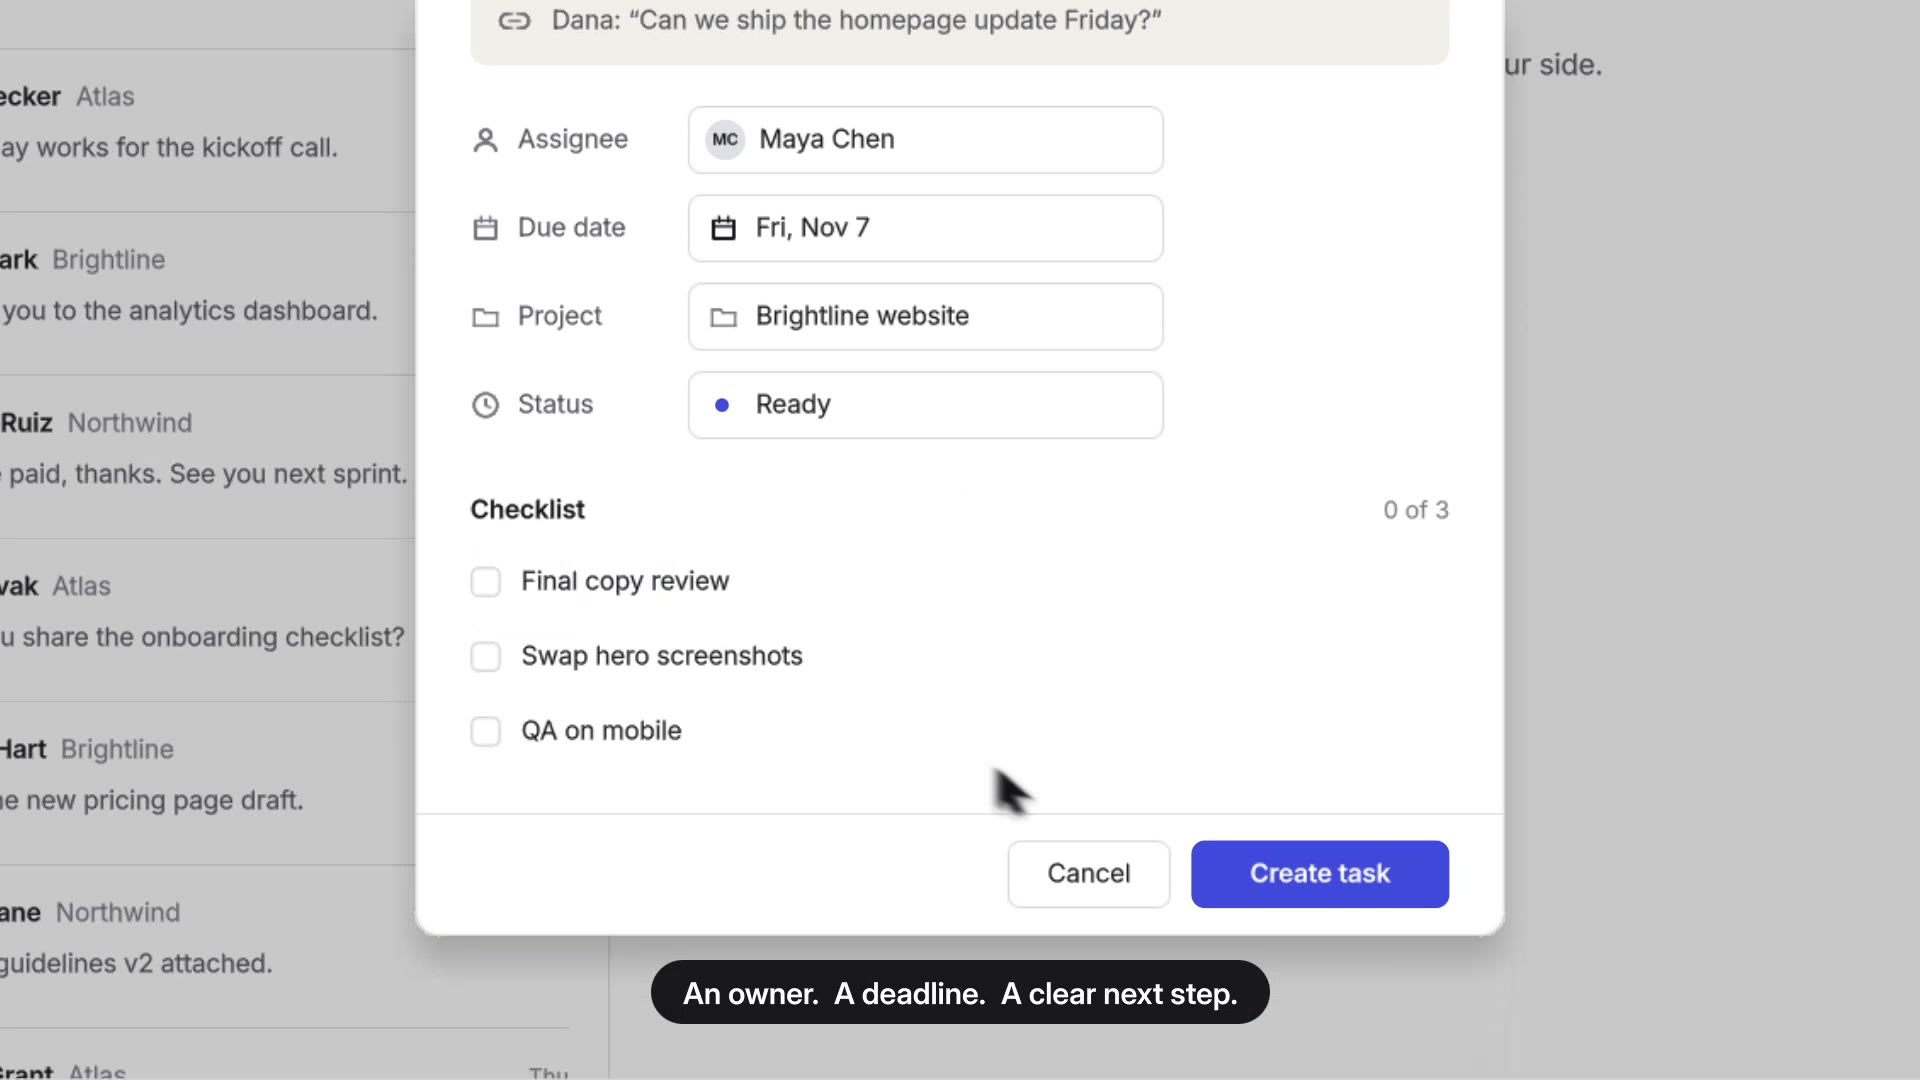
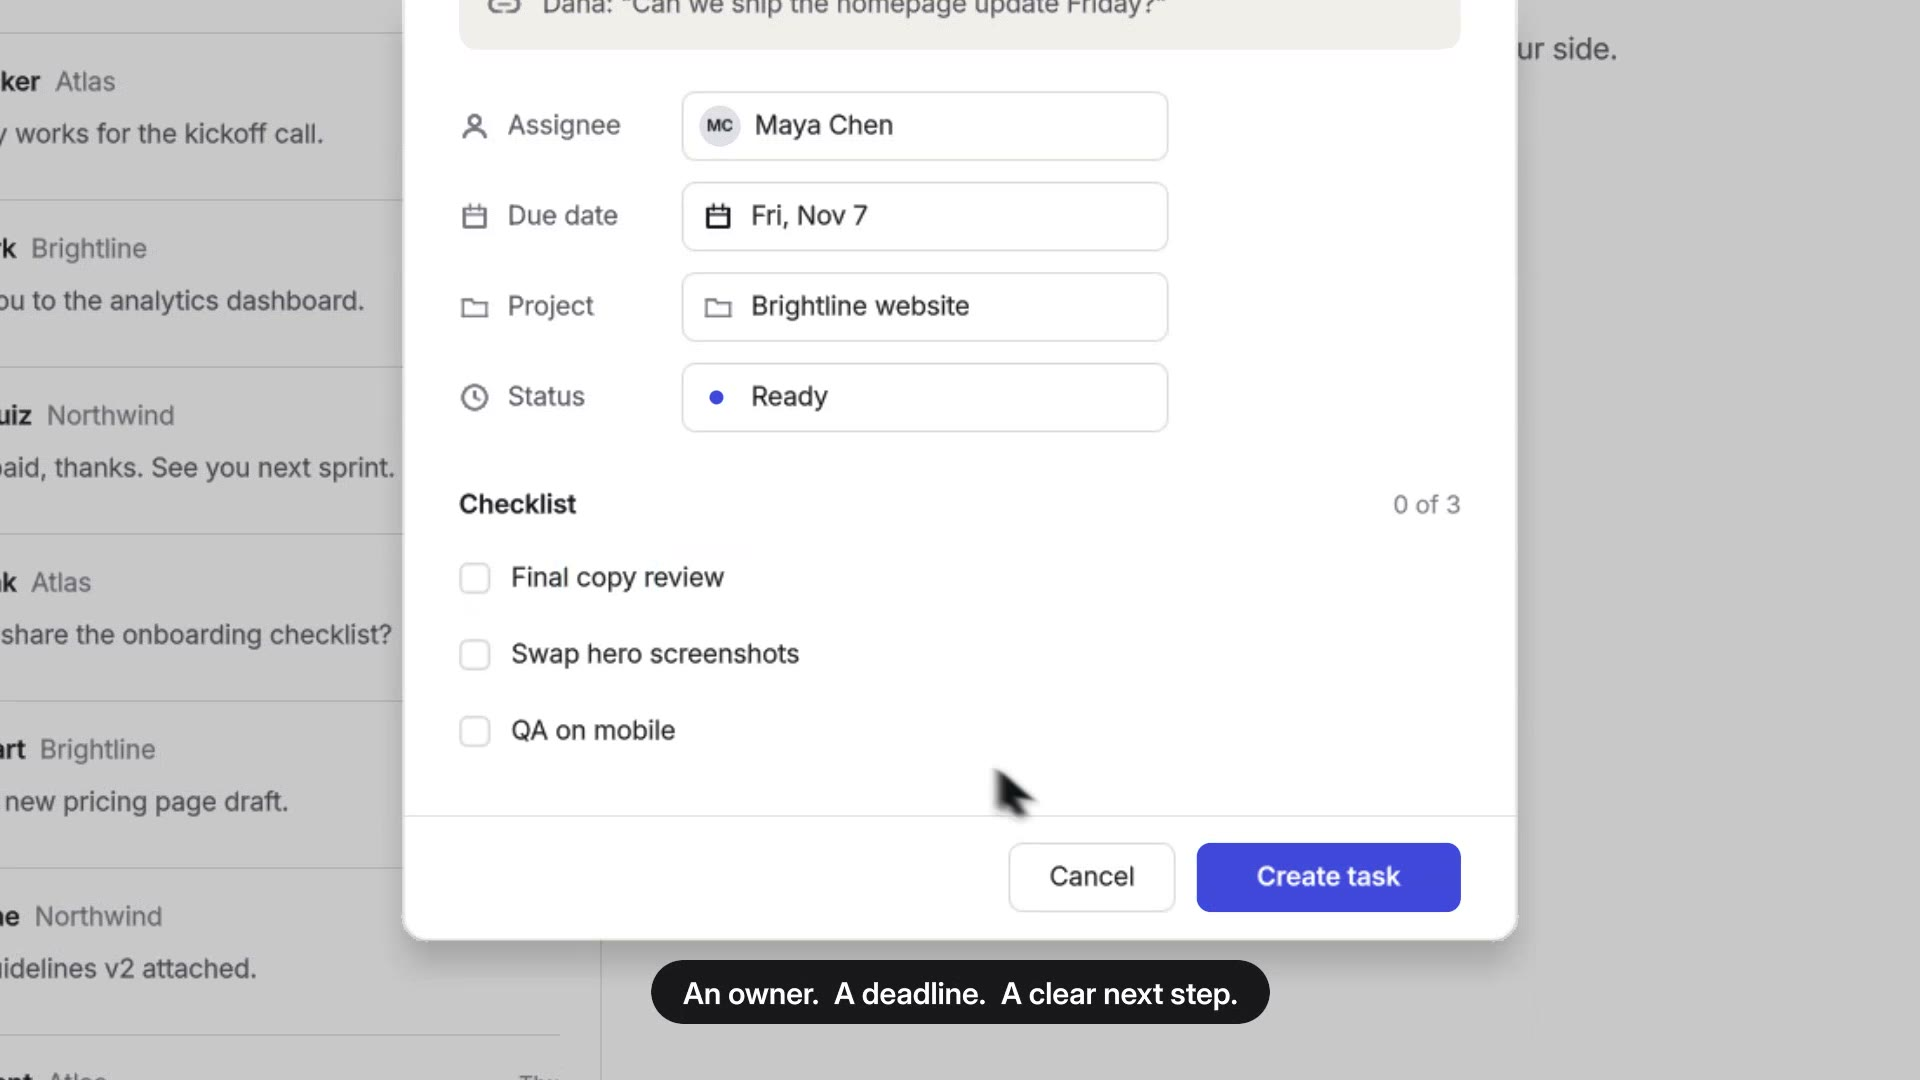
docs(readme): link the re-cut Relay film and its thumbnail

diff --git a/README.md b/README.md
@@ -41,8 +41,8 @@ Every frame is rendered by framefields directly from TypeScript in [`examples/`]
 <table>
   <tr>
     <td width="33.33%" align="center">
-      <a href="https://youtu.be/uq4zN04sP6o"><img src="assets/showcase/relay.jpg" alt="Relay product film" width="100%"></a>
-      <br><a href="https://youtu.be/uq4zN04sP6o"><b>Relay</b></a>
+      <a href="https://youtu.be/3lrQdiXjlnY"><img src="assets/showcase/relay.jpg" alt="Relay product film" width="100%"></a>
+      <br><a href="https://youtu.be/3lrQdiXjlnY"><b>Relay</b></a>
       <br><sub><a href="examples/32_relay"><code>32_relay</code></a></sub>
     </td>
     <td width="33.33%" align="center">
